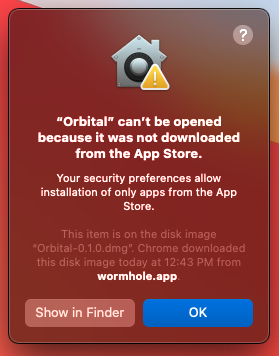
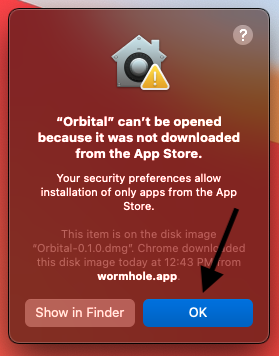
Update readme.

Changed region(s): [[0.7168, 0.5871, 0.8602, 0.8343]]

diff --git a/README.md b/README.md
@@ -59,11 +59,17 @@ First of all, thank you. Seriously - thanks a bunch! I recently quit my job to b
 
   <img src="/guide/2.png" width=400>
 
-- #### When you try to open Orbital, you may see this popup. Whoa that looks scary, why is it there? The tl;dr is that I do not have an Apple Developer License right now.
+- #### When you try to open Orbital, you will see this popup. The reason this happens is because I did not but an Apple Developer License yet. (Details in FAQ).
 
   <img src="/guide/3.png" width=400>
 
-- #### You will need to head over to .
+- #### Anyway, you can press "ok" to close that popup and head over to System Preferences.
+
+  <img src="/guide/4.png" width=400>
+
+- #### The
+
+  <img src="/guide/5.png" width=400>
 
 - #### You will only need to do this the first time you download the app. Afterwards, Apple will allow you to freely open and close Orbital on your Mac.
 
